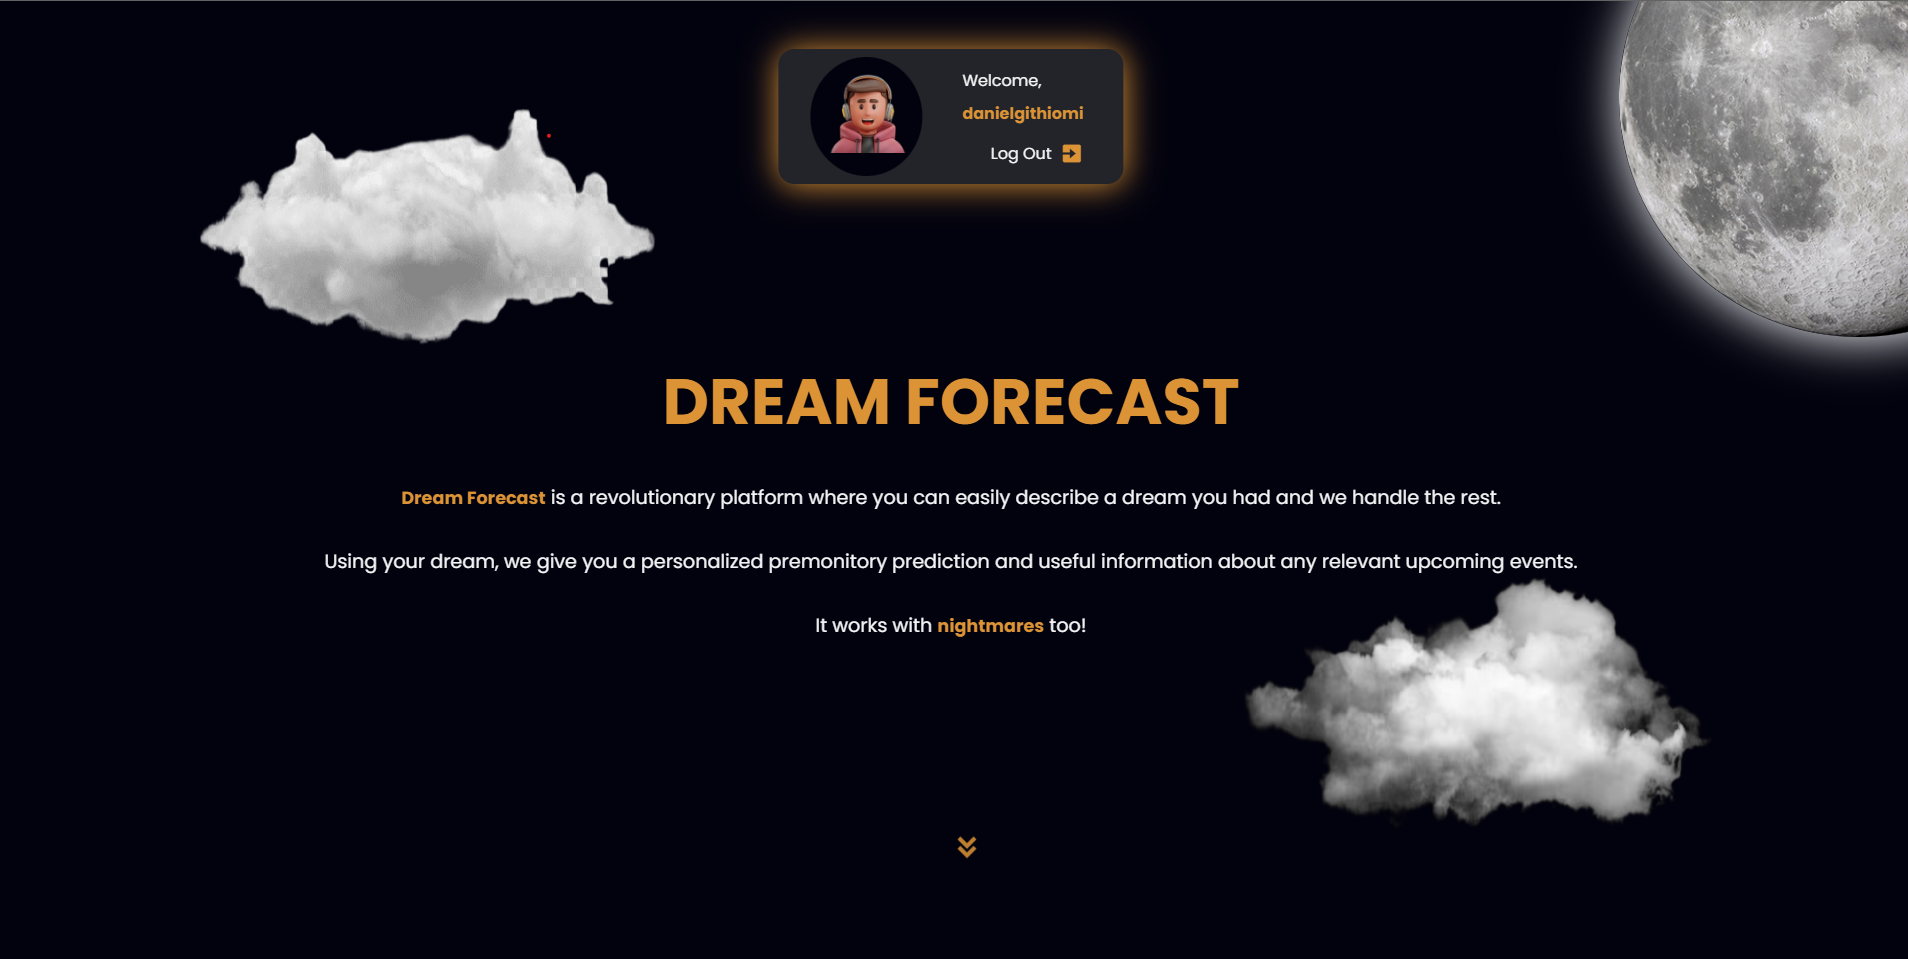
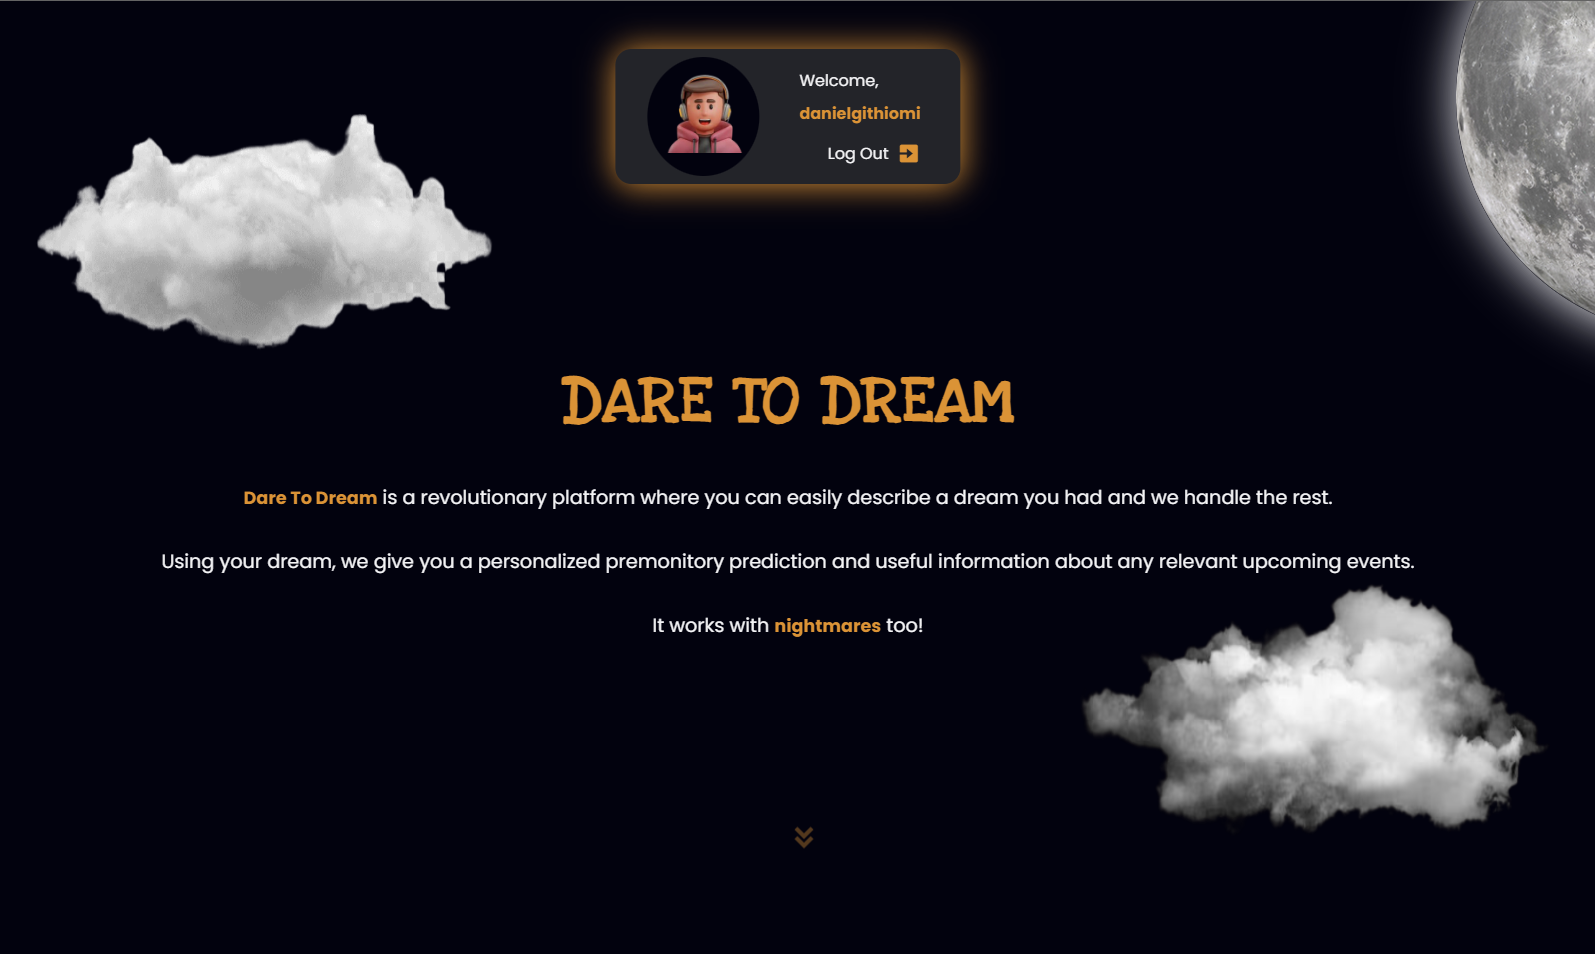
Refactored the index page and updated screenshot

diff --git a/index.html b/index.html
@@ -63,12 +63,13 @@
 
         <!-- Application Title -->
         <h2 class="title">
-            Dream Forecast
+            <!-- Page Title Goes Here -->
+            Dare To Dream
         </h2>
 
         <!-- Application Description -->
         <p class="description">
-            <span class="special">Dream Forecast</span> is a revolutionary platform where you can easily describe a
+            <span class="special">Dare To Dream</span> is a revolutionary platform where you can easily describe a
             dream you had and we handle the rest.
             <br><br>
             Using your dream, we give you a personalized premonitory prediction and useful information about any

diff --git a/CSS/index.css b/CSS/index.css
@@ -197,6 +197,8 @@ a {
     font-size: 4rem;
     text-align: center;
     margin: 4rem 0;
+    font-family: 'Love Ya Like A Sister', sans-serif;
+    letter-spacing: 1px;
 }
 
 .special {

diff --git a/README.md b/README.md
@@ -1,10 +1,11 @@
-# DARE DREAMER
+# <a href="https://githiomi.github.io/Dare-Dreamer" target="_blank"><img style="margin: 0px 5px" src="./Assets/Images/Dream_Logo.png" alt="Click Hive" height="40" /></a>DARE DREAMER
 
 > Created by <a href="https://www.github.com/githiomi"> Daniel Githiomi </a>
 
 ## 🚧 Description
 
 `Dare Dreamer` is a web application that enables users of the application to put in their dreams (or nightmares) and then we handle the rest by giving the user a premonitory prediction and interpretation of what the dream could mean.
+
 ## 👀 Product Preview
 
 ![Screenshot](./Assets/Images/Screenshot.png)
